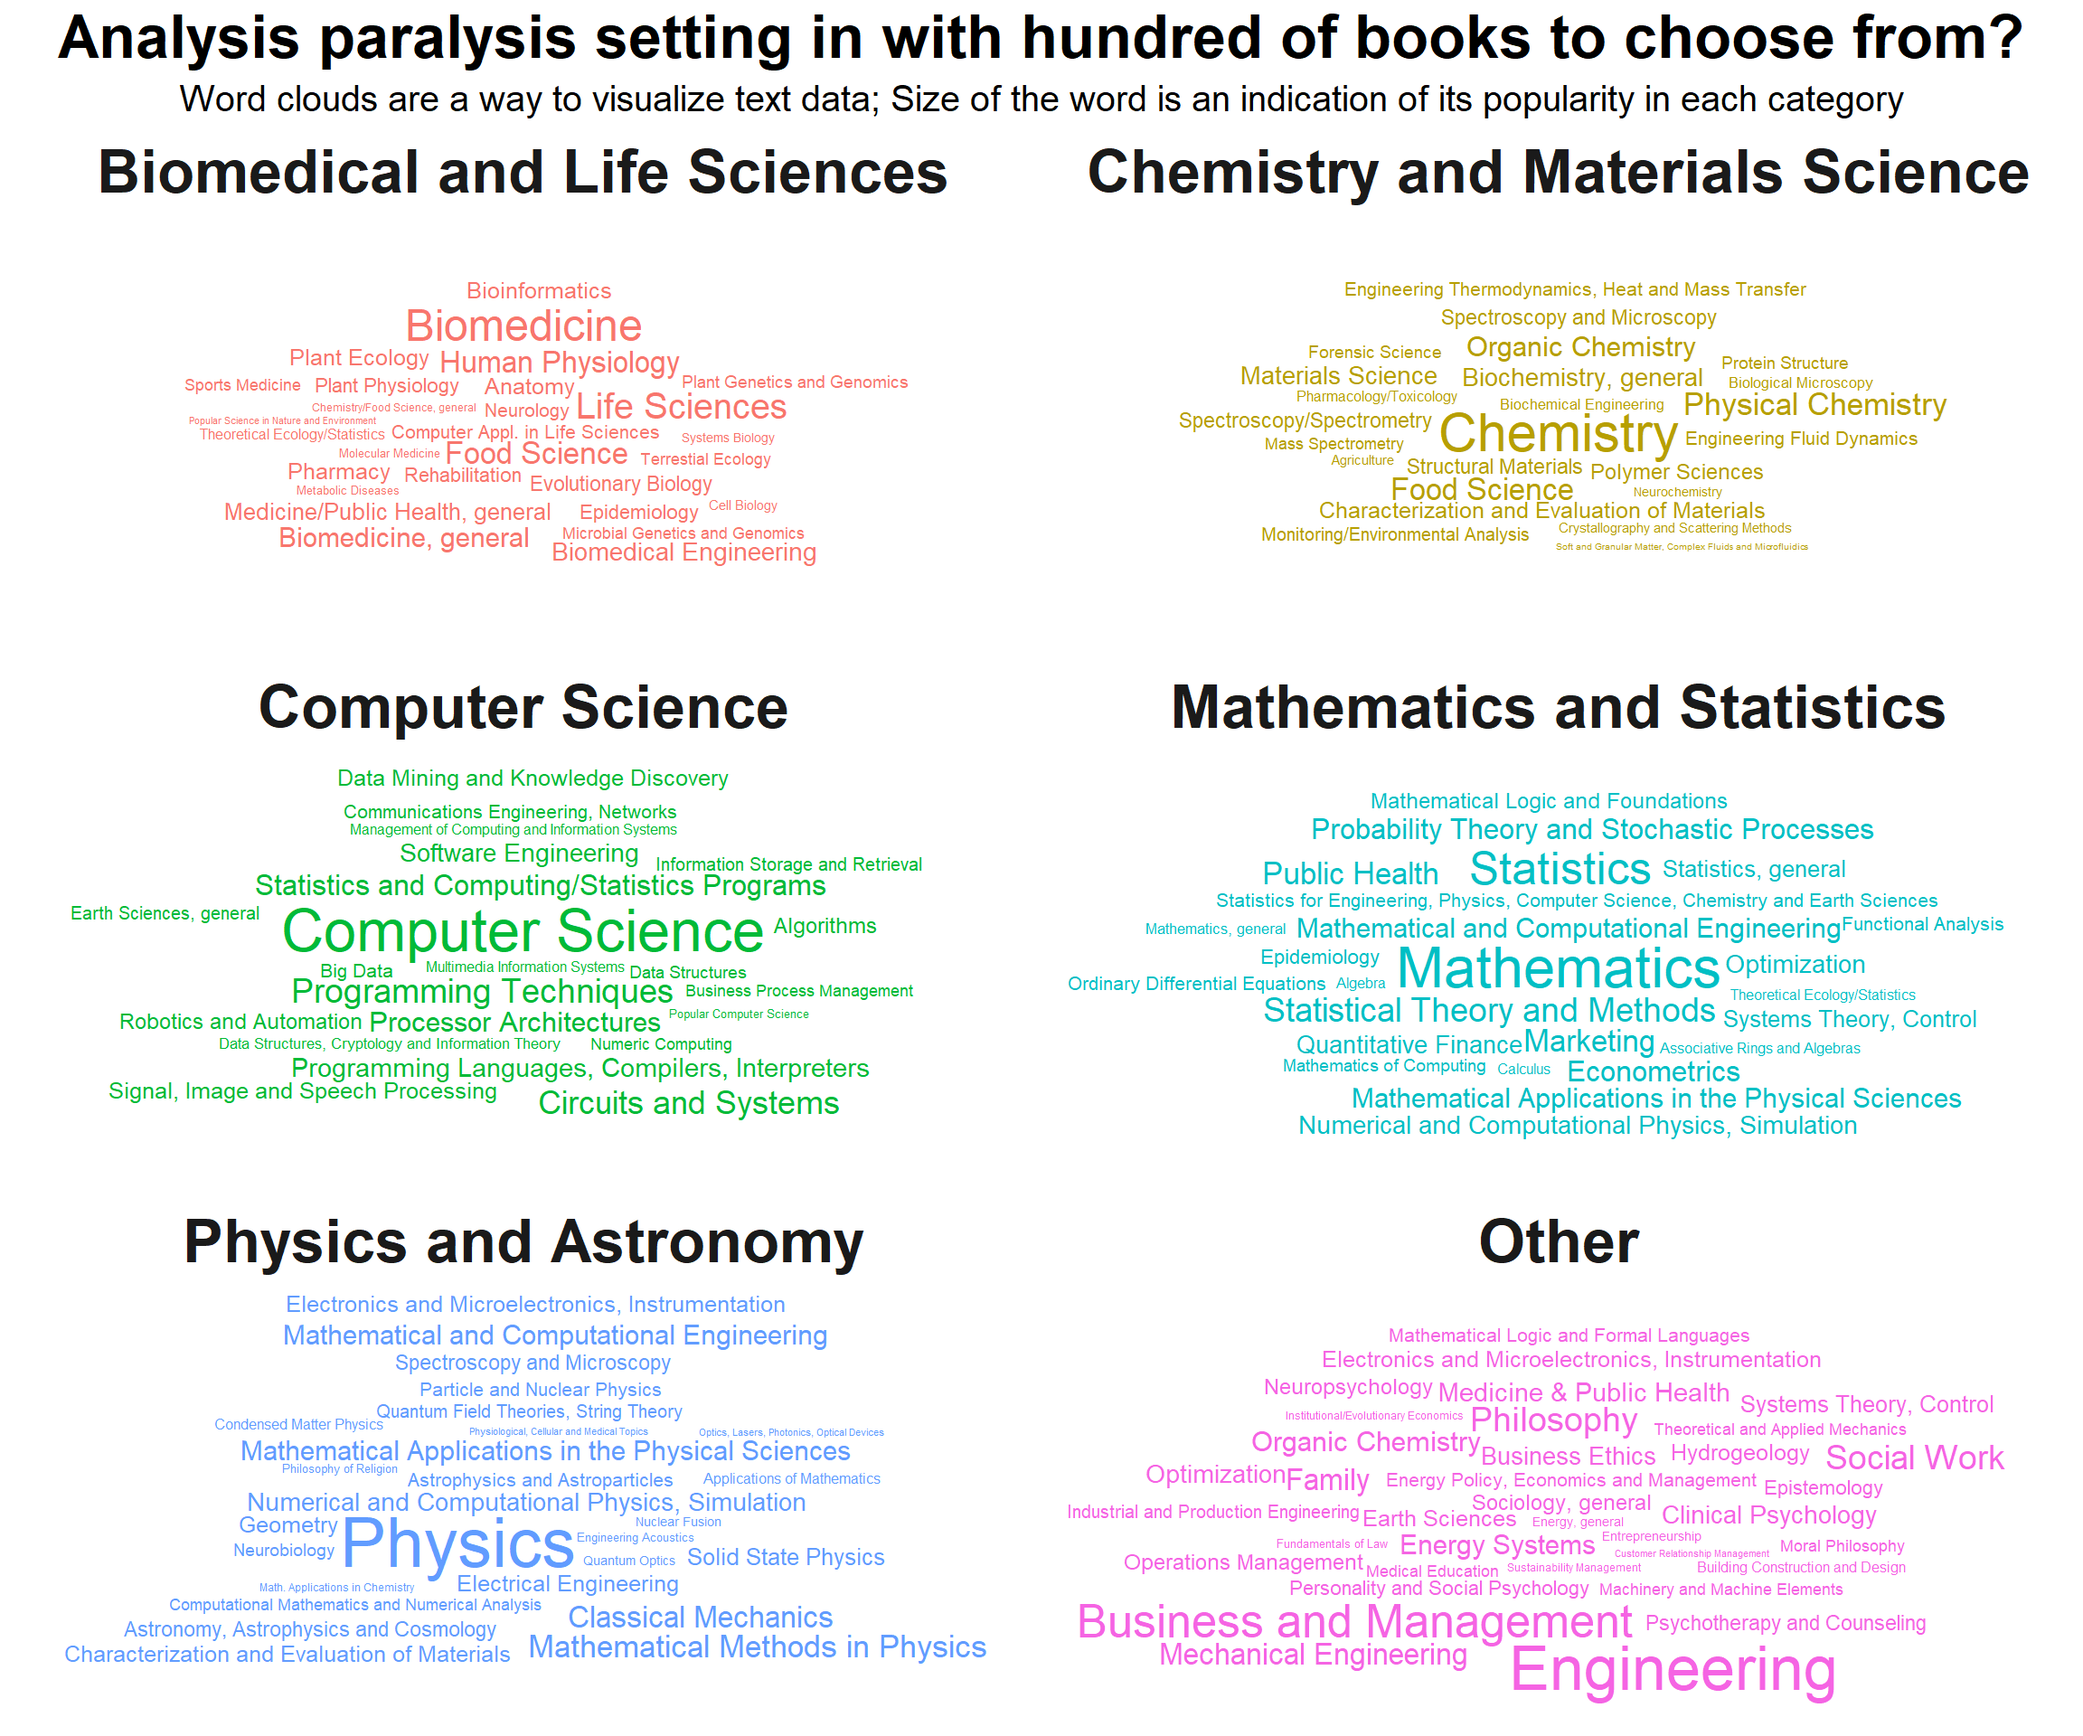
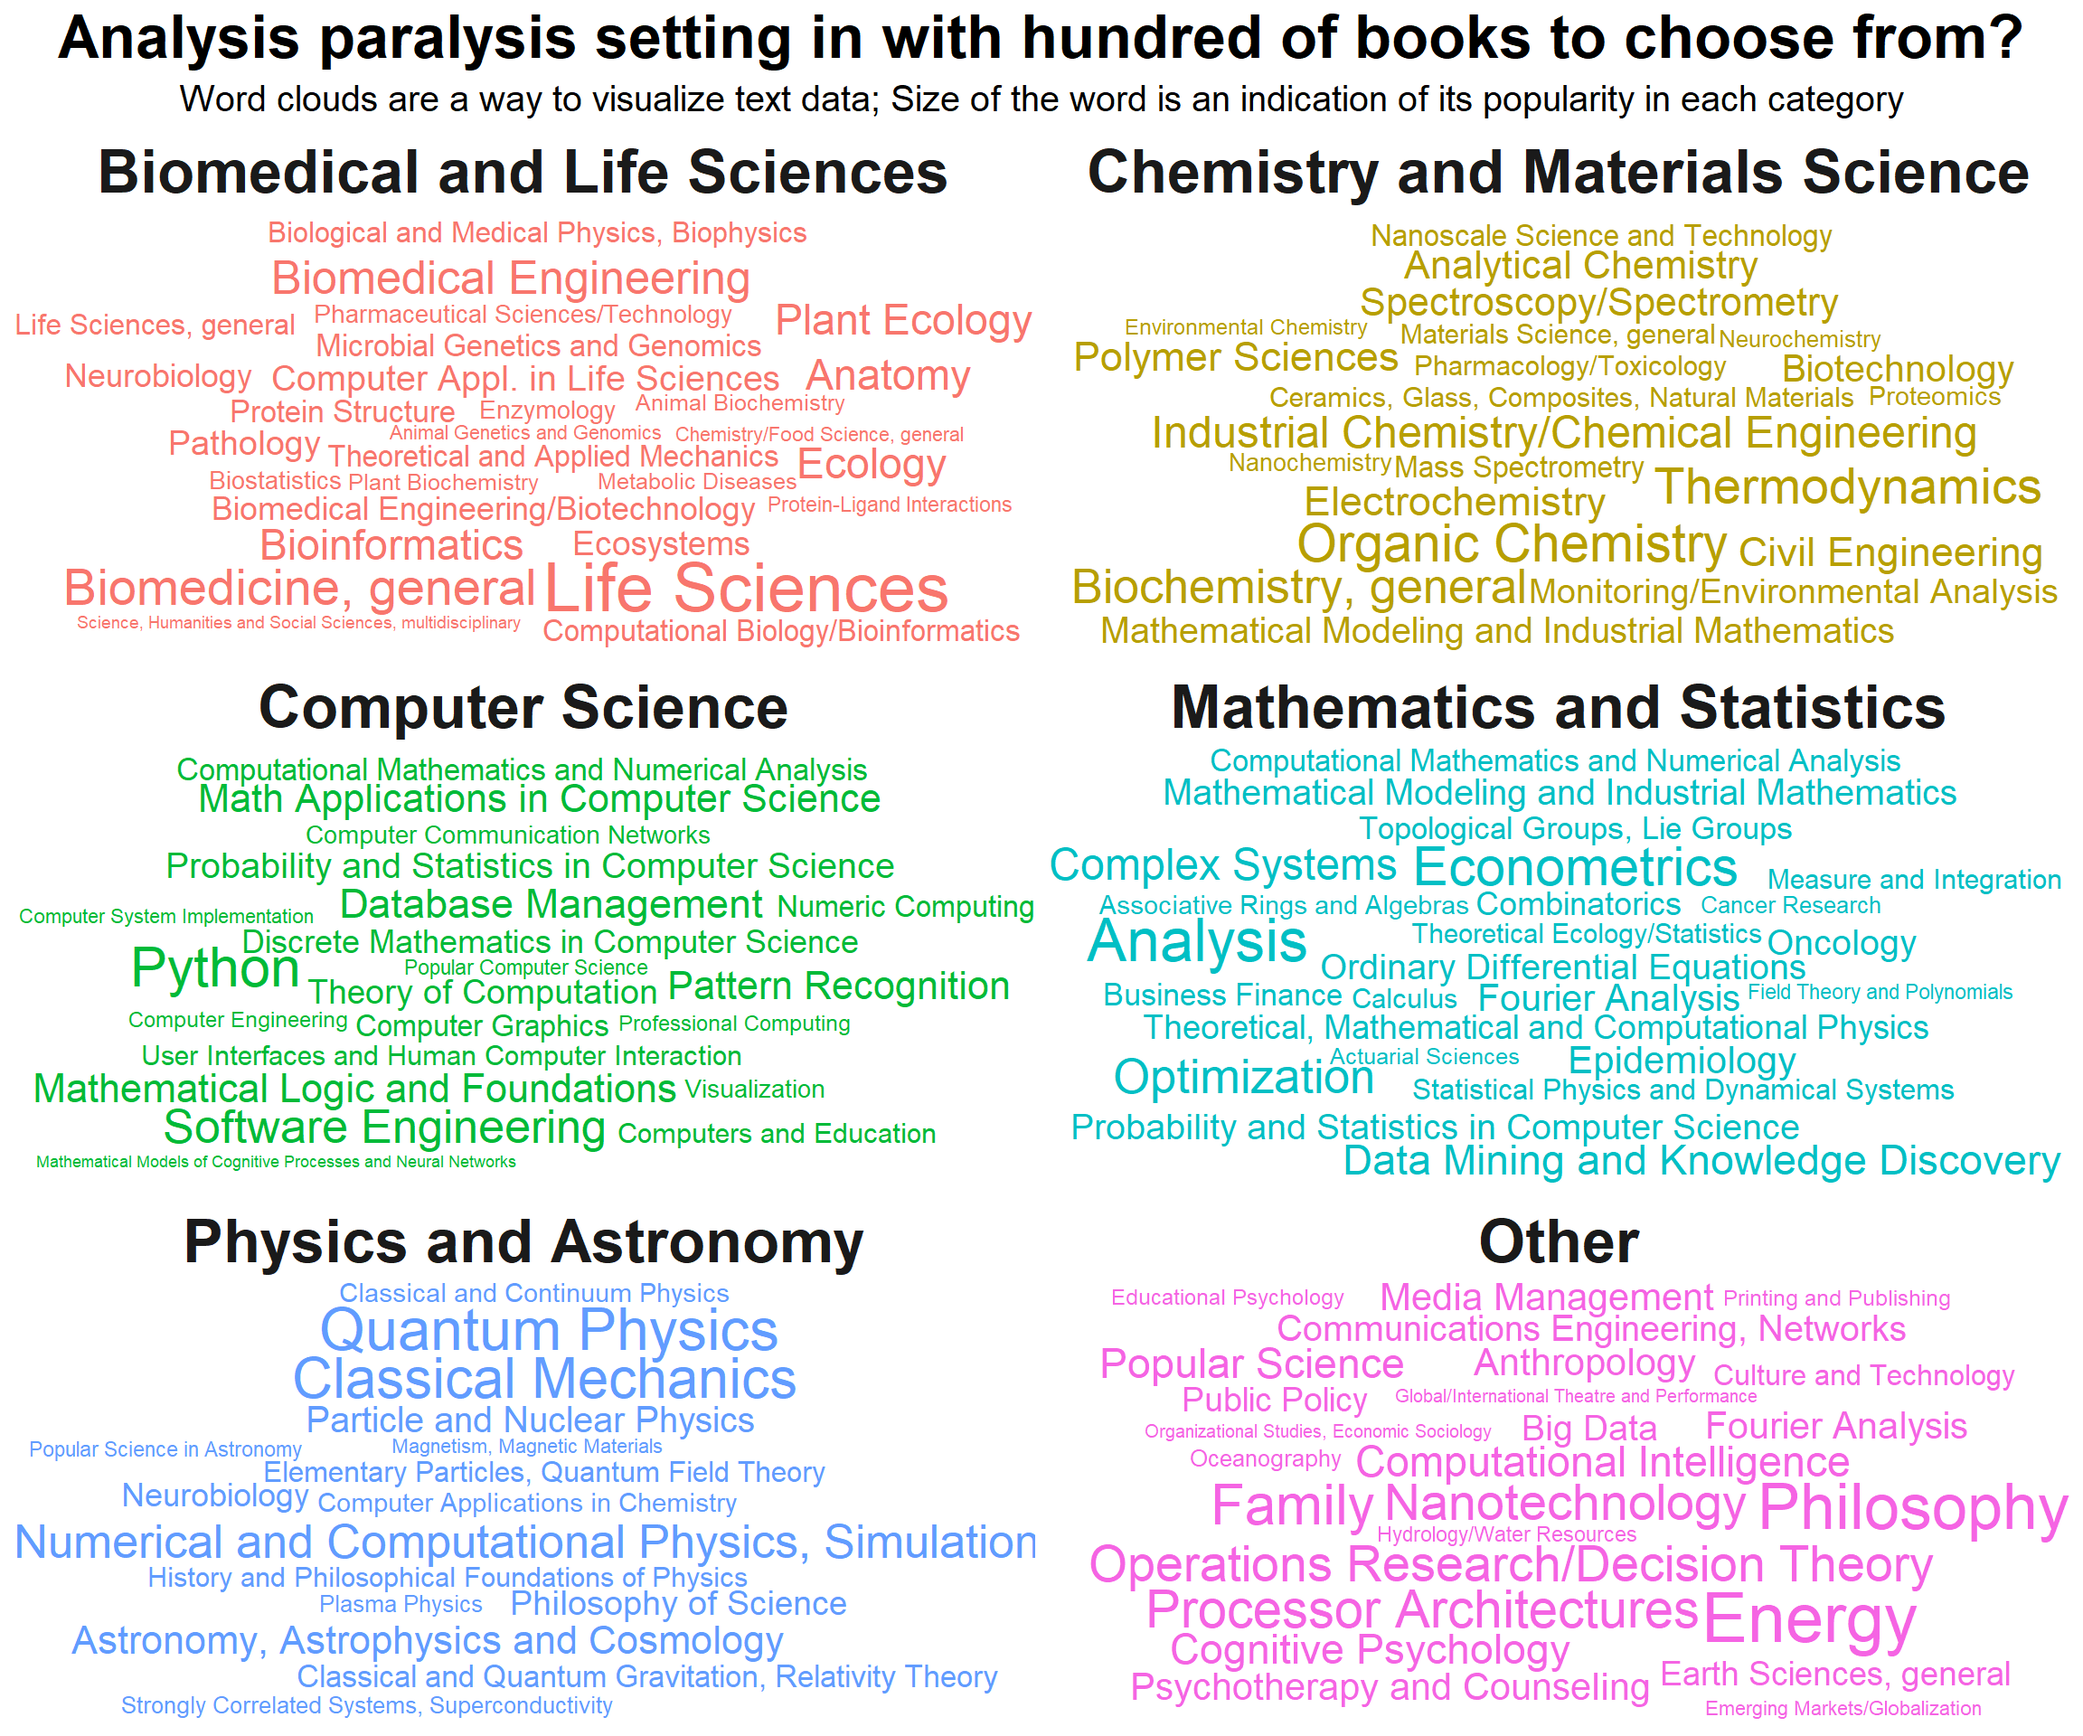
springer blog post update

diff --git a/content/post/2020-04-30-being-picky-about-free-textbooks-from-springer.html b/content/post/2020-04-30-being-picky-about-free-textbooks-from-springer.html
@@ -731,6 +731,7 @@ springer_tidy %&gt;%
 wordcloud &lt;- springer_tidy %&gt;%
   add_count(categories) %&gt;%
   mutate(english_package_name = fct_lump_n(english_package_name, 5)) %&gt;%
+  filter(n &lt; 15) %&gt;% 
   group_by(english_package_name) %&gt;%
   sample_n(40) %&gt;%
   distinct(categories, n, english_package_name)

diff --git a/public/2020/04/being-picky-about-free-textbooks-from-springer/index.html b/public/2020/04/being-picky-about-free-textbooks-from-springer/index.html
@@ -937,6 +937,7 @@ springer_tidy %&gt;%
 wordcloud &lt;- springer_tidy %&gt;%
   add_count(categories) %&gt;%
   mutate(english_package_name = fct_lump_n(english_package_name, 5)) %&gt;%
+  filter(n &lt; 15) %&gt;% 
   group_by(english_package_name) %&gt;%
   sample_n(40) %&gt;%
   distinct(categories, n, english_package_name)
